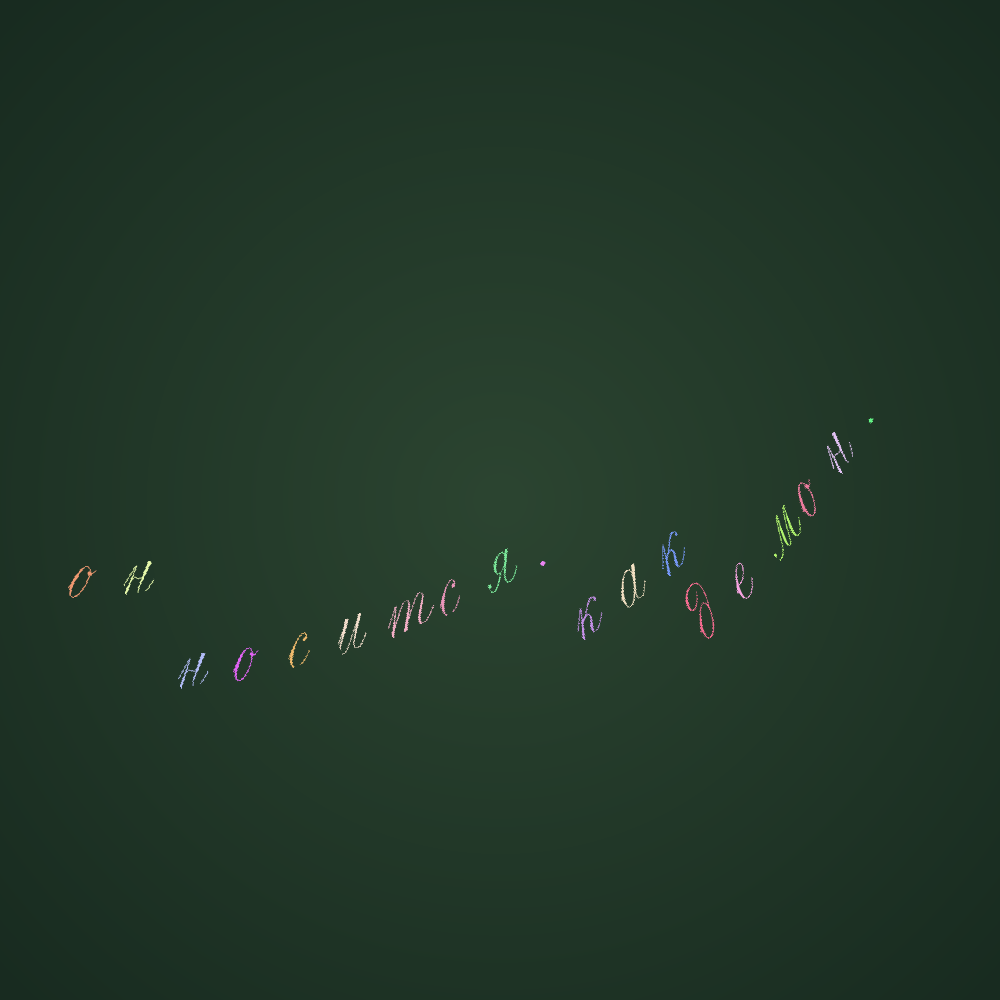
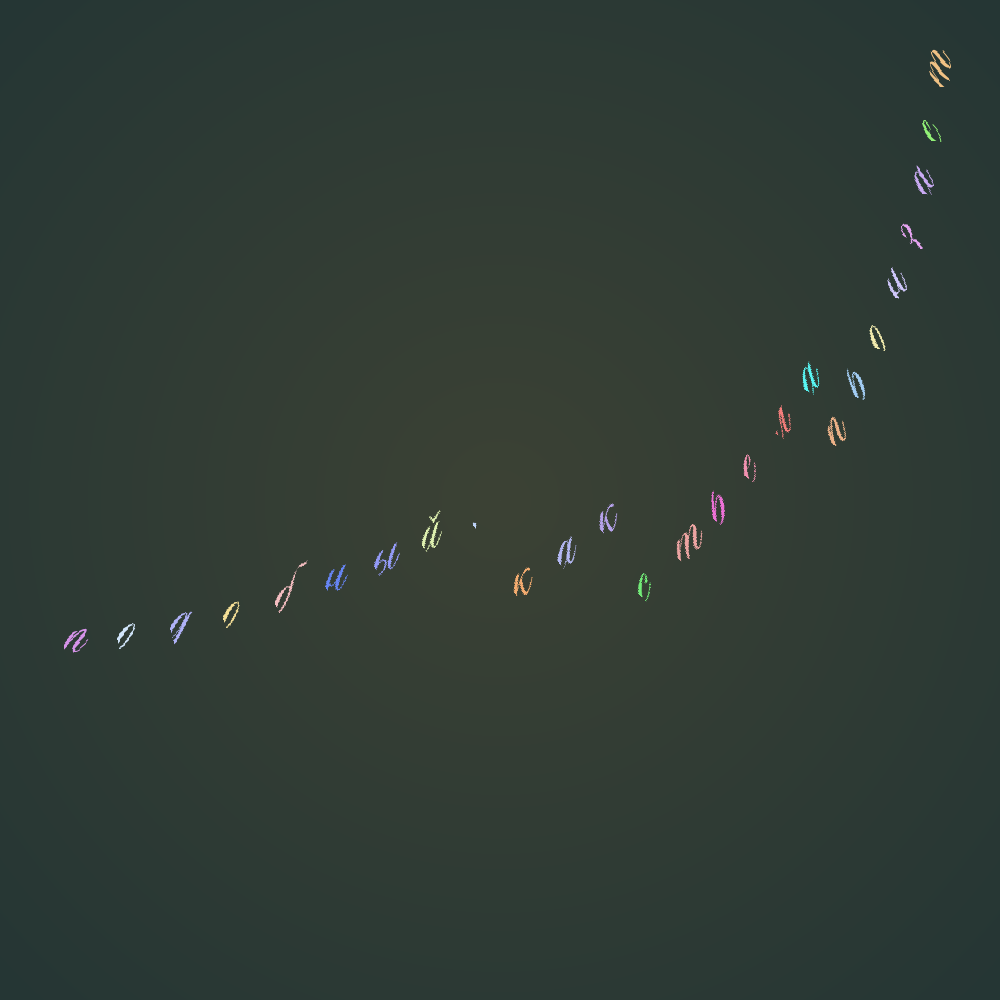
no comment

diff --git a/captcha.py b/captcha.py
@@ -1,8 +1,5 @@
-
-# import database
-# from crud import create_config, get_config, get_config_last
+import click
 import uuid
-import PIL
 import os, math
 from PIL import Image
 from PIL import ImageFont, ImageDraw, ImageOps, ImageColor
@@ -61,7 +58,7 @@ def get_all_fonts(fonts_dir="cyr_fonts"):
             fonts.append(os.path.join(dirpath, filename))
     return fonts    
 
-def create_base_image(name='base.jpg', opacity=255, save=False, imgsize=(250, 250), mode='RGB', inner_сolor = [80, 80, 255], outer_сolor = [0, 0, 80]):
+def create_base_image(name='base.jpg', opacity=255, save=False, imgsize=(250, 250), mode='RGB', inner_сolor=[80, 80, 255], outer_сolor=[0, 0, 80]):
     '''
     Это будет код для круглого градиента:
     Для каждого пикселя он устанавливает значения красного, зеленого и синего где-то между innerColor и outerColor в зависимости от расстояния от пикселя до центра.
@@ -77,15 +74,15 @@ def create_base_image(name='base.jpg', opacity=255, save=False, imgsize=(250, 25
         for x in range(imgsize[0]):
 
             #Find the distance to the center
-            distanceToCenter = math.sqrt((x - imgsize[0]/2) ** 2 + (y - imgsize[1]/2) ** 2)
+            distance_to_center = math.sqrt((x - imgsize[0]/2) ** 2 + (y - imgsize[1]/2) ** 2)
 
             #Make it on a scale from 0 to 1
-            distanceToCenter = float(distanceToCenter) / (math.sqrt(2) * imgsize[0]/2)
+            distance_to_center = float(distance_to_center) / (math.sqrt(2) * imgsize[0]/2)
 
             #Calculate r, g, and b values
-            r = outer_сolor[0] * distanceToCenter + inner_сolor[0] * (1 - distanceToCenter)
-            g = outer_сolor[1] * distanceToCenter + inner_сolor[1] * (1 - distanceToCenter)
-            b = outer_сolor[2] * distanceToCenter + inner_сolor[2] * (1 - distanceToCenter)
+            r = outer_сolor[0] * distance_to_center + inner_сolor[0] * (1 - distance_to_center)
+            g = outer_сolor[1] * distance_to_center + inner_сolor[1] * (1 - distance_to_center)
+            b = outer_сolor[2] * distance_to_center + inner_сolor[2] * (1 - distance_to_center)
 
 
             #Place the pixel        
@@ -138,7 +135,7 @@ def normalize(alpha, value=0.25):
 
 
     # {'s_back':s_back, 'v_back':v_back, 's_font':s_font, 'v_font':v_font}
-def gen_captcha(save=True, use_db=False, conf={'type':'last'}, fonts=fonts, captcha_texts=captcha_texts, words=4, offsets=offsets, hsv=hsv, image_size=image_size, font_size_limit=font_size_limit ):    
+def gen_captcha(save=True, name='captcha.png', use_db=False, conf={'type':'last'}, fonts=fonts, captcha_texts=captcha_texts, words=4, offsets=offsets, hsv=hsv, image_size=image_size, font_size_limit=font_size_limit ):    
     """
     генератор капчи
 
@@ -167,10 +164,6 @@ def gen_captcha(save=True, use_db=False, conf={'type':'last'}, fonts=fonts, capt
         if conf['type'] == 'last':
             config = crud.get_config_last(database.db)
     
-    # fone = ImageColor.getrgb('white')
-    # text_c = (0,0,0,255)
-    # im = Image.new('RGB', (im_w, im_h), color=fone) 
-    # gr_color1 = random_color()
     font_path = fonts[random.randint(0,len(fonts))]
     font_size = random.randint(*font_size_limit)
     font = ImageFont.truetype(font_path, font_size)
@@ -179,19 +172,13 @@ def gen_captcha(save=True, use_db=False, conf={'type':'last'}, fonts=fonts, capt
     uu = uuid.uuid4()
 
     gr_color1 = hsv2rgb(random_color_hue(hsv['s_back'], hsv['v_back']))
-    # gr_color1
     gr_color2 = hsv2rgb(random_color_hue(hsv['s_back'], hsv['v_back']))
     im = create_base_image(imgsize=image_size, inner_сolor=gr_color1, outer_сolor=gr_color2)
     song_list = some_text(captcha_texts)
-    # song_list
     texts = get_three_words(song_list, words)
-    # print(texts)
-    draw1 = ImageDraw.Draw(im)
-    # draw1.text((0, 0), text='astramariy cerevbor crush', font=font, fill=random_color_hue(s_font, v_font))
     i = 3
     j = 0
     for text in texts:
-        # i=1
         for t in text:
             image2 = Image.new('RGBA', (width, height), (255, 255, 255, 0))
             draw2 = ImageDraw.Draw(image2)
@@ -199,21 +186,14 @@ def gen_captcha(save=True, use_db=False, conf={'type':'last'}, fonts=fonts, capt
             draw2.text((0, 0), text=t, font=font, fill=font_color)
             alpha = 3*i
             image2 = image2.rotate(alpha, expand=1)
-            # divided_width = 1.5
-            # divided_height = (normalize(alpha))*4
-            # divided_by = 9
-            # px, py = int( im_w * sin(alpha*pi/180)/divided_width)-1, int(im_h * cos(alpha*pi/180)/divided_height)-200
             px = int(image_size[0] * sin(alpha*pi/180)) - offsets['x_offset'] 
             py = int(image_size[1] * cos(alpha*pi/180)) - offsets['y_offset']
-            # px, py = width, height
             sx, sy = image2.size
-            # sx =sx//2
-            sy =sy
             im.paste(image2, (px, py + j * offsets['offset'], px + sx, py + j * offsets['offset'] + sy), image2)
             i += 1
         j += 1
     if save:
-        im.save('image1.png')
+        im.save(name)
     else:
         im.show()
     save_last((texts, uu), (font_path, font_size), im)
@@ -248,7 +228,7 @@ def init(fonts_dir='cyr_fonts', use_db=False, captcha_texts=captcha_texts, captc
     
     if use_db:
         import crud
-        conf = crud.create_config(offsets, hsv, image_size, fonts_dir, captcha_texts, captcha_file_path, font_size_limit)
+        config = crud.create_config(offsets, hsv, image_size, fonts_dir, captcha_texts, captcha_file_path, font_size_limit)
         
 
 def save_last(captcha_prop, font_prop, im):
@@ -262,15 +242,18 @@ def get_last():
     im = globals()['im'] 
     return captcha_prop, font_prop, im
     
-
-def show_img(use_db=False, fonts=fonts, captcha_texts=captcha_texts, hsv=hsv, image_size=image_size, offsets=offsets):
-    y_off, x_off, gen_off = offsets['y_offset'], offsets['x_offset'], offsets['offset']
-    offsets0 = {'y_offset': 400, 'x_offset': x_off, 'offset': gen_off}
-    if len(fonts) == 0:
-        fonts = get_all_fonts(fonts_dir)
-    # print('fonts= ', fonts)
-    im, captcha_prop, font_prop = gen_captcha(save=False, fonts=fonts, hsv=hsv, image_size=image_size, captcha_texts=captcha_texts, offsets=offsets0 )
+@click.command()
+@click.option('--name', '-n', default="captcha.png", help='Путь сохранения капчи')
+@click.option('--fonts_dir', '-f', default=fonts_dir, prompt='Укажите место расположения шрифтов:\n', help='Путь где лежат шрифты')
+@click.option('--image_size', '-s', default=image_size, help='Размер картинки')
+@click.option('--hsv', '-s', default=hsv, help='Яркость и сатурация шрифтов и фона')
+@click.option('--offsets', '-s', default=offsets, help='Смещение капчи')
+@click.option('--captcha_texts', default='Над седой равниной моря', prompt='введите текст для генерирования капчи:\n', help='текст для генерирования капчи')
+def show_img(use_db=False, name='captcha.png', fonts_dir=fonts_dir, captcha_texts=captcha_texts, hsv=hsv, image_size=image_size, offsets=offsets):
+    fonts = get_all_fonts(fonts_dir)
+    im, captcha_prop, font_prop = gen_captcha(save=False, fonts=fonts, hsv=hsv, image_size=image_size, captcha_texts=captcha_texts, offsets=offsets )
     return im, captcha_prop, font_prop
+
 
 
 def run(use_db=False, fonts=fonts, captcha_texts=captcha_texts, hsv=hsv, image_size=image_size, offsets=offsets):
@@ -279,10 +262,9 @@ def run(use_db=False, fonts=fonts, captcha_texts=captcha_texts, hsv=hsv, image_s
     if len(fonts) == 0:
         fonts = get_all_fonts(fonts_dir)
     im, captcha_prop, font_prop = gen_captcha(save=True, fonts=fonts, captcha_texts=captcha_texts, offsets=offsets0 )
-    # im, captcha_prop, font_prop = gen_captcha(save=True, fonts=fonts, captcha_texts=songs, words=4, offset = 100, s_back=s_back, x_offset=100, y_offset=500, v_back=v_back, s_font=s_font, v_font=v_font, im_w=im_w, im_h=im_h )
     return im, captcha_prop, font_prop
 
-init()
 
-show_img()
-im, captcha_prop, font_prop = gen_captcha(save=False, fonts=fonts, hsv=hsv, image_size=image_size, captcha_texts=captcha_texts, offsets=offsets )
+if __name__=='__main__':
+    init()
+    show_img()
